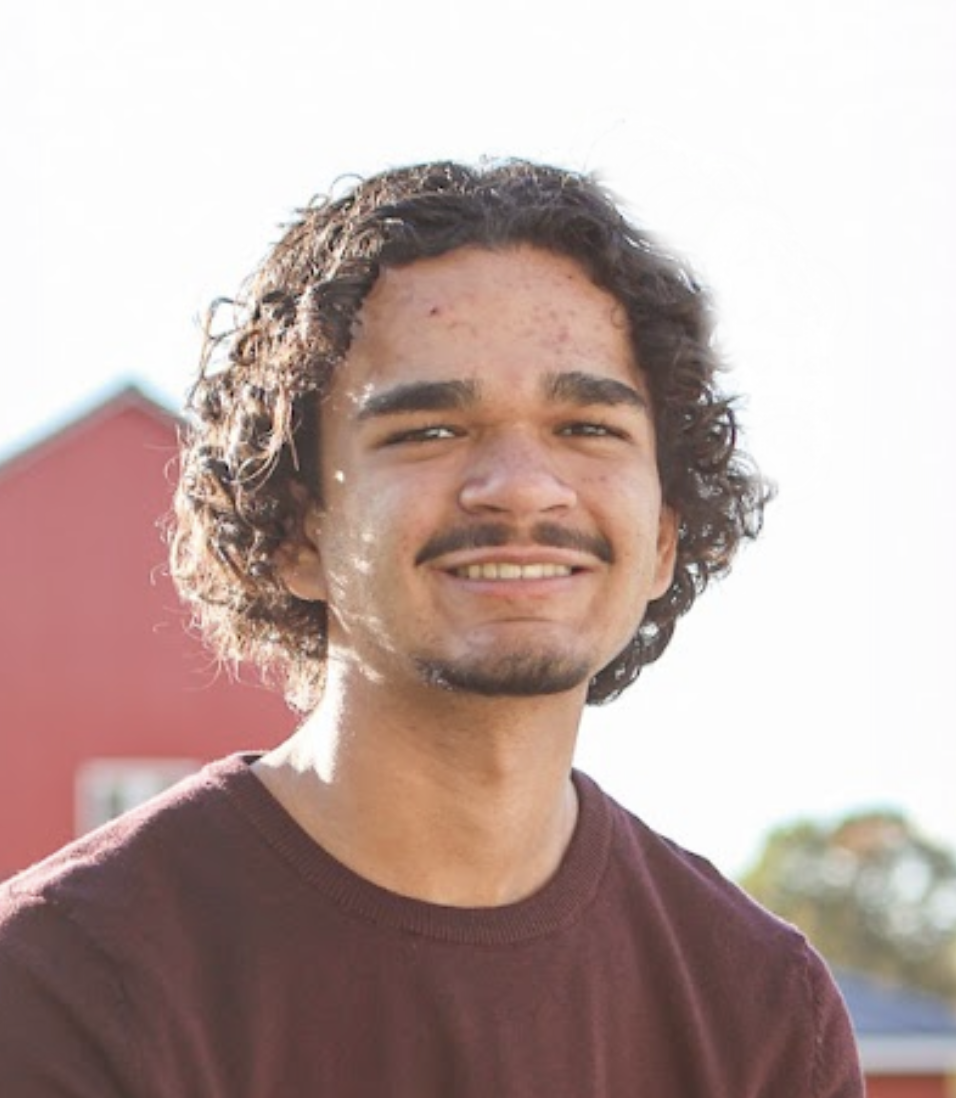
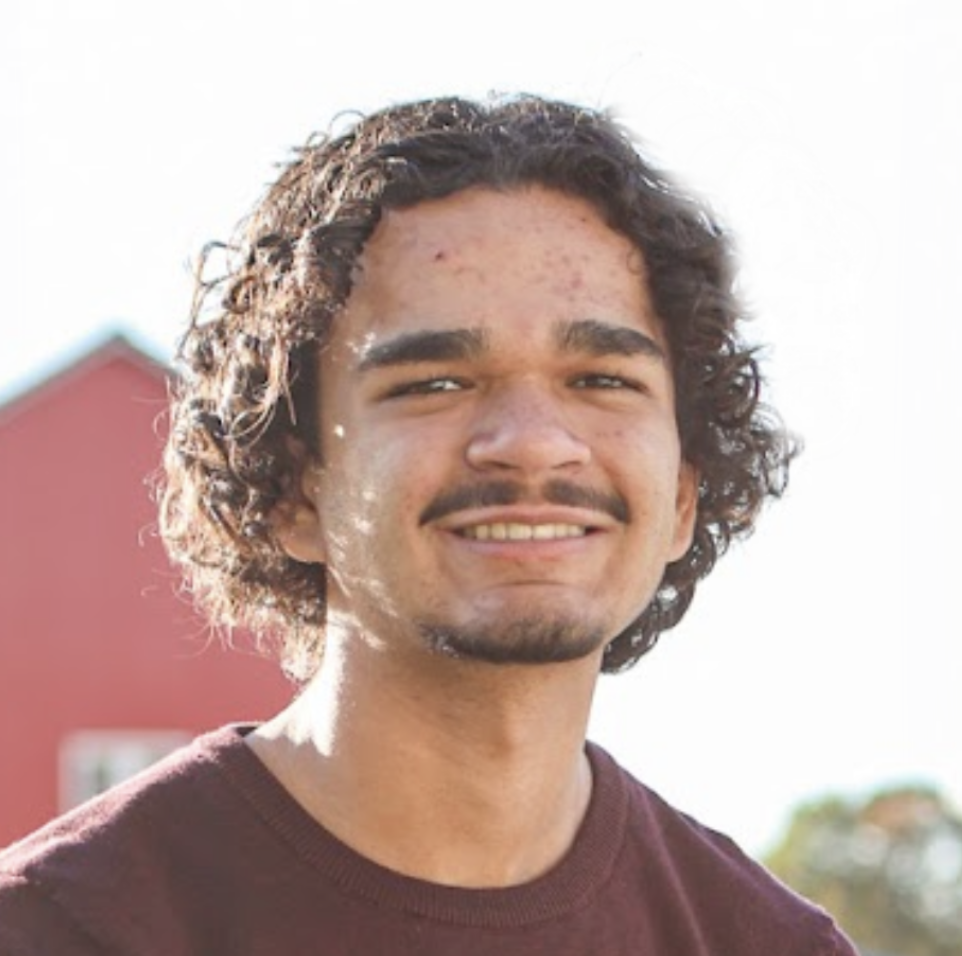
team updates

diff --git a/src/app/team/members.ts b/src/app/team/members.ts
@@ -19,6 +19,12 @@ const exec: TeamMember[] = [
     imageSrc: "/people/amy-lin.png",
   },
   {
+    name: "Nicole Zheng",
+    roles: ["Marketing Chair", "Webmaster"],
+    year: "2029",
+    imageSrc: "/people/nicole-zheng.jpg",
+  },
+  {
     name: "Rebecca Xiong",
     roles: ["Finance Chair", "Outreach Chair"],
     year: "2028",
@@ -32,6 +38,7 @@ const exec: TeamMember[] = [
   },
   {
     name: "Jany Zhang",
+    year: "2030",
     roles: ["Outreach Chair"],
     imageSrc: "/people/temp-pic.jpg",
   },
@@ -42,19 +49,33 @@ const exec: TeamMember[] = [
     imageSrc: "/people/sanchali-banerjee.jpeg",
   },
   {
-    name: "Nicole Zheng",
-    roles: ["Marketing Chair", "Webmaster"],
+    name: "Nyan Lin Htet",
+    roles: ["Team Lead"],
+    year: "2028",
+    imageSrc: "/people/nyan-lin-htet.png",
+  },
+  {
+    name: "Fela Ralte",
+    roles: ["Team Lead"],
+    year: "2028",
+    imageSrc: "/people/fela-ralte.png",
+  },
+  {
+    name: "Elisa Zhang",
+    roles: ["Team Lead"],
     year: "2029",
-    imageSrc: "/people/nicole-zheng.jpg",
+    imageSrc: "/people/elisa-zhang.png",
   },
   {
     name: "Sophia Chen",
     roles: ["Team Lead"],
+    year: "2030",
     imageSrc: "/people/sophia-chen.png",
   },
   {
     name: "Kaemyn Brown",
     roles: ["Team Lead"],
+    year: "2030",
     imageSrc: "/people/kaemyn-brown.png",
   },
   {
@@ -78,23 +99,8 @@ const exec: TeamMember[] = [
   {
     name: "Angelina Li",
     roles: ["Team Lead"],
+    year: "2030",
     imageSrc: "/people/angelina-li.png",
-  },
-  {
-    name: "Nyan Lin Htet",
-    roles: ["Team Lead"],
-    year: "2028",
-    imageSrc: "/people/nyan-lin-htet.png",
-  },
-  {
-    name: "Elisa Zhang",
-    roles: ["Team Lead"],
-    imageSrc: "/people/elisa-zhang.png",
-  },
-  {
-    name: "Fela Ralte",
-    roles: ["Team Lead"],
-    imageSrc: "/people/fela-ralte.png",
   },
   {
     name: "Hailey Pan",
